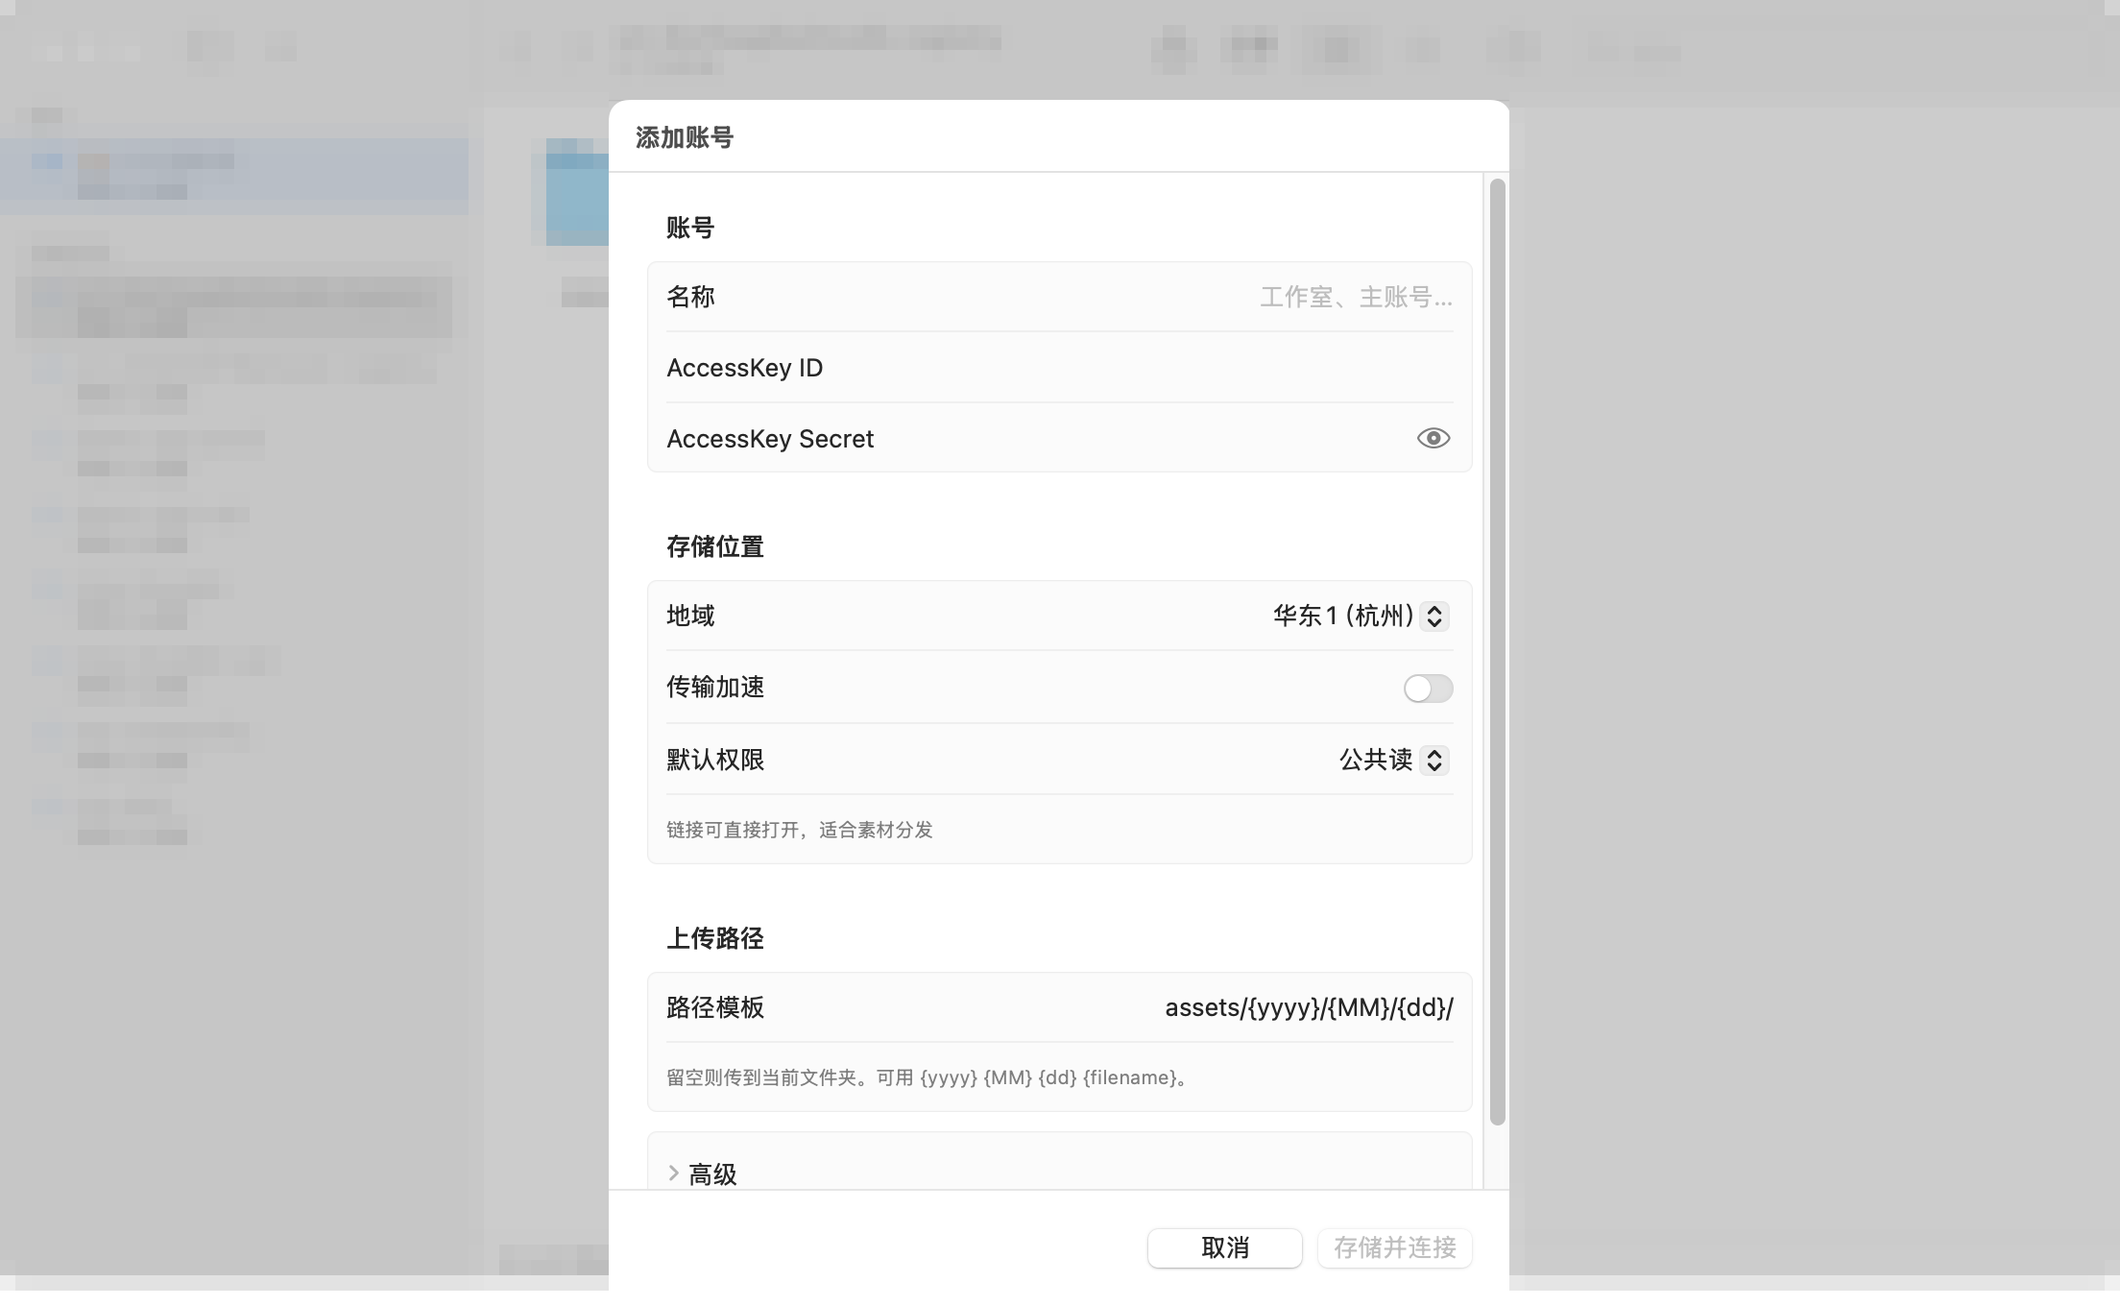
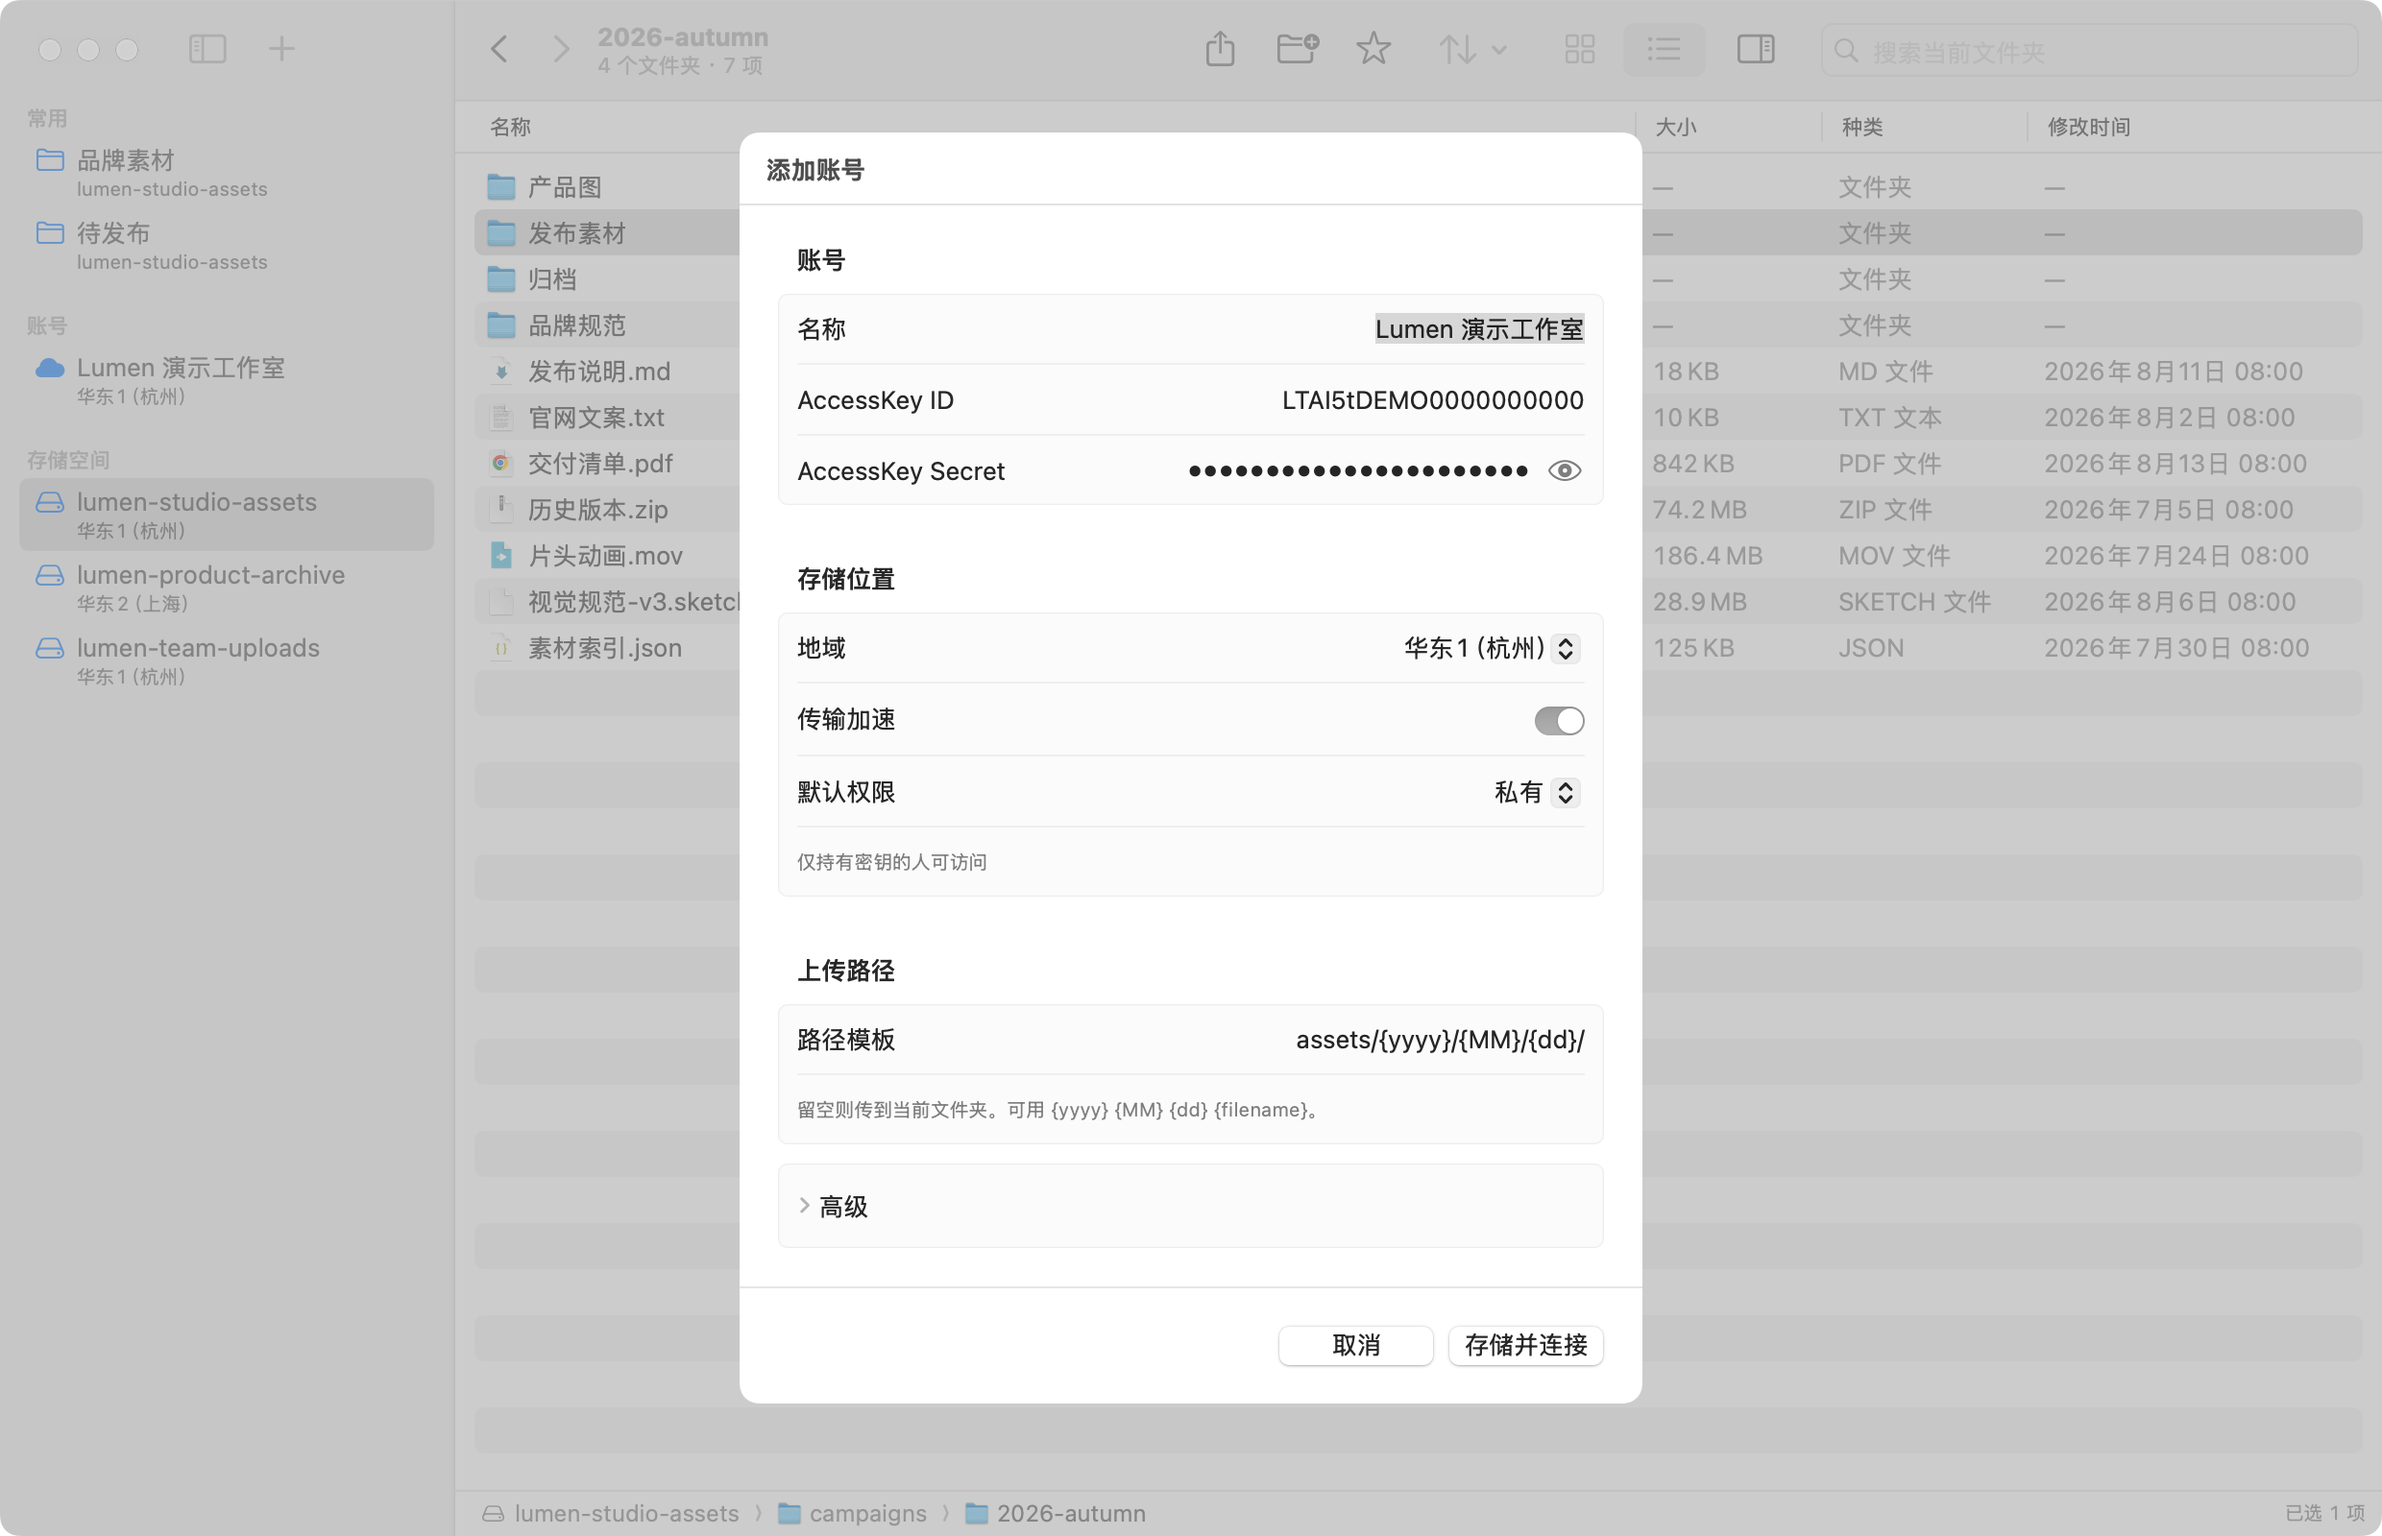
docs: generate safe Lumen product screenshots

diff --git a/Lumen/App/ScreenshotDemo.swift b/Lumen/App/ScreenshotDemo.swift
@@ -1,0 +1,143 @@
+#if DEBUG
+import AppKit
+import Foundation
+
+@MainActor
+enum ScreenshotDemo {
+    enum Mode: Equatable {
+        case browser
+        case account
+    }
+
+    static var currentMode: Mode? {
+        let arguments = ProcessInfo.processInfo.arguments
+        if arguments.contains("--lumen-screenshot-browser") { return .browser }
+        if arguments.contains("--lumen-screenshot-account") { return .account }
+        return nil
+    }
+
+    static let accountDraft = AccountDraft(
+        id: UUID(uuidString: "6A7ED12A-73B6-4C18-A6DE-3BD395520001")!,
+        name: "Lumen 演示工作室",
+        accessKeyId: "LTAI5tDEMO0000000000",
+        secret: "demo-secret-never-used",
+        token: "",
+        regionID: "cn-hangzhou",
+        endpointOverride: "",
+        cdnDomain: "media.example.com",
+        defaultACL: .private,
+        prefixTemplate: "assets/{yyyy}/{MM}/{dd}/",
+        useTransferAccelerate: true,
+        createdAt: Date(timeIntervalSince1970: 1_765_756_800)
+    )
+
+    static func makeModel(for mode: Mode) -> AppModel {
+        let accountID = UUID(uuidString: "6A7ED12A-73B6-4C18-A6DE-3BD395520001")!
+        let account = OSSAccount(
+            id: accountID,
+            name: "Lumen 演示工作室",
+            accessKeyId: "LTAI5tDEMO0000000000",
+            regionID: "cn-hangzhou",
+            endpointOverride: "",
+            cdnDomain: "media.example.com",
+            defaultACL: .private,
+            prefixTemplate: "assets/{yyyy}/{MM}/{dd}/",
+            useTransferAccelerate: true,
+            createdAt: Date(timeIntervalSince1970: 1_765_756_800)
+        )
+        let defaults = UserDefaults(suiteName: "Lumen.ScreenshotDemo.\(UUID().uuidString)")!
+        let services = AppServices(
+            accounts: [account],
+            settings: AppSettings(defaults: defaults),
+            favorites: FavoriteStore(defaults: defaults)
+        )
+        let model = AppModel(services: services)
+        model.browser = BrowserModel(defaults: defaults)
+        model.selectedAccountID = accountID
+        model.buckets = buckets
+        model.selectedBucketName = "lumen-studio-assets"
+        model.browser.prefix = "campaigns/2026-autumn/"
+        model.browser.viewMode = .list
+        model.browser.imagesOnly = false
+        model.browser.folders = folders
+        model.browser.objects = objects
+        model.browser.backStack = ["", "campaigns/"]
+        model.browser.replaceSelection(["campaigns/2026-autumn/发布素材/"])
+        model.favorites.add(FavoriteLocation(
+            accountID: accountID,
+            bucketName: "lumen-studio-assets",
+            prefix: "brand/",
+            name: "品牌素材"
+        ))
+        model.favorites.add(FavoriteLocation(
+            accountID: accountID,
+            bucketName: "lumen-studio-assets",
+            prefix: "campaigns/2026-autumn/发布素材/",
+            name: "待发布"
+        ))
+        model.showAccountSheet = mode == .account
+        return model
+    }
+
+    static func prepareWindow() {
+        DispatchQueue.main.asyncAfter(deadline: .now() + 0.2) {
+            guard let window = NSApp.windows.first(where: { $0.canBecomeKey }) else { return }
+            window.setContentSize(NSSize(width: 1240, height: 800))
+            window.center()
+            window.makeKeyAndOrderFront(nil)
+            NSApp.activate(ignoringOtherApps: true)
+        }
+    }
+
+    private static let buckets = [
+        OSSBucket(
+            name: "lumen-studio-assets",
+            regionID: "cn-hangzhou",
+            location: "oss-cn-hangzhou",
+            extranetEndpoint: "oss-cn-hangzhou.aliyuncs.com",
+            createdAt: Date(timeIntervalSince1970: 1_704_067_200)
+        ),
+        OSSBucket(
+            name: "lumen-product-archive",
+            regionID: "cn-shanghai",
+            location: "oss-cn-shanghai",
+            extranetEndpoint: "oss-cn-shanghai.aliyuncs.com",
+            createdAt: Date(timeIntervalSince1970: 1_672_531_200)
+        ),
+        OSSBucket(
+            name: "lumen-team-uploads",
+            regionID: "cn-hangzhou",
+            location: "oss-cn-hangzhou",
+            extranetEndpoint: "oss-cn-hangzhou.aliyuncs.com",
+            createdAt: Date(timeIntervalSince1970: 1_735_689_600)
+        )
+    ]
+
+    private static let folders = [
+        OSSFolder(prefix: "campaigns/2026-autumn/品牌规范/"),
+        OSSFolder(prefix: "campaigns/2026-autumn/产品图/"),
+        OSSFolder(prefix: "campaigns/2026-autumn/发布素材/"),
+        OSSFolder(prefix: "campaigns/2026-autumn/归档/")
+    ]
+
+    private static let objects = [
+        object("交付清单.pdf", size: 842_371, modified: 1_786_579_200),
+        object("发布说明.md", size: 18_426, modified: 1_786_406_400),
+        object("视觉规范-v3.sketch", size: 28_934_228, modified: 1_785_974_400),
+        object("官网文案.txt", size: 9_842, modified: 1_785_628_800),
+        object("素材索引.json", size: 124_908, modified: 1_785_369_600),
+        object("片头动画.mov", size: 186_422_901, modified: 1_784_851_200),
+        object("历史版本.zip", size: 74_208_552, modified: 1_783_209_600)
+    ]
+
+    private static func object(_ name: String, size: Int64, modified: TimeInterval) -> OSSObject {
+        OSSObject(
+            key: "campaigns/2026-autumn/\(name)",
+            size: size,
+            etag: "DEMO-\(size)",
+            lastModified: Date(timeIntervalSince1970: modified),
+            storageClass: "Standard"
+        )
+    }
+}
+#endif

diff --git a/Lumen/LumenApp.swift b/Lumen/LumenApp.swift
@@ -31,13 +31,30 @@ struct LumenApp: App {
 }
 
 private struct WorkspaceRoot: View {
-    @State private var model = AppModel()
+    @State private var model: AppModel
+
+    init() {
+        #if DEBUG
+        if let mode = ScreenshotDemo.currentMode {
+            _model = State(initialValue: ScreenshotDemo.makeModel(for: mode))
+            return
+        }
+        #endif
+        _model = State(initialValue: AppModel())
+    }
 
     var body: some View {
         RootView()
             .environment(model)
+            .modifier(ScreenshotActiveState())
             .background(WindowFocusProbe { model.becomeFocused() })
             .onAppear {
+                #if DEBUG
+                if ScreenshotDemo.currentMode != nil {
+                    ScreenshotDemo.prepareWindow()
+                    return
+                }
+                #endif
                 guard !AppRuntime.isRunningTests else { return }
                 do {
                     try SecretStore.migrateLegacySecrets()
@@ -47,6 +64,21 @@ private struct WorkspaceRoot: View {
                 model.bootstrap()
                 model.becomeFocused()
             }
+    }
+}
+
+private struct ScreenshotActiveState: ViewModifier {
+    @ViewBuilder
+    func body(content: Content) -> some View {
+        #if DEBUG
+        if ScreenshotDemo.currentMode != nil {
+            content.environment(\.controlActiveState, .active)
+        } else {
+            content
+        }
+        #else
+        content
+        #endif
     }
 }
 

diff --git a/LumenTests/ScreenshotDemoTests.swift b/LumenTests/ScreenshotDemoTests.swift
@@ -1,0 +1,35 @@
+#if DEBUG
+import Testing
+@testable import Lumen
+
+@MainActor
+struct ScreenshotDemoTests {
+    @Test func browserFixtureUsesSyntheticIsolatedWorkspace() {
+        let model = ScreenshotDemo.makeModel(for: .browser)
+
+        #expect(model.accounts.count == 1)
+        #expect(model.selectedAccount?.name == "Lumen 演示工作室")
+        #expect(model.selectedAccount?.accessKeyId == "LTAI5tDEMO0000000000")
+        #expect(model.selectedBucketName == "lumen-studio-assets")
+        #expect(model.browser.prefix == "campaigns/2026-autumn/")
+        #expect(model.browser.viewMode == .list)
+        #expect(model.browser.folders.count == 4)
+        #expect(model.browser.objects.count == 7)
+        #expect(model.browser.selectedKeys == ["campaigns/2026-autumn/发布素材/"])
+        #expect(model.favorites.items.map(\.name) == ["品牌素材", "待发布"])
+        #expect(!model.showAccountSheet)
+    }
+
+    @Test func accountFixtureIsClearlyNonProduction() {
+        let model = ScreenshotDemo.makeModel(for: .account)
+        let draft = ScreenshotDemo.accountDraft
+
+        #expect(model.showAccountSheet)
+        #expect(draft.name == "Lumen 演示工作室")
+        #expect(draft.accessKeyId.contains("DEMO"))
+        #expect(draft.secret == "demo-secret-never-used")
+        #expect(draft.defaultACL == .private)
+        #expect(draft.prefixTemplate == "assets/{yyyy}/{MM}/{dd}/")
+    }
+}
+#endif

diff --git a/Lumen/Views/RootView.swift b/Lumen/Views/RootView.swift
@@ -155,7 +155,7 @@ private struct RootPresentation: ViewModifier {
         @Bindable var model = model
         content
             .sheet(isPresented: $model.showAccountSheet) {
-                AccountSheet(draft: AccountDraft.fresh())
+                AccountSheet(draft: initialAccountDraft)
             }
             .fileImporter(
                 isPresented: $showFileImporter,
@@ -225,6 +225,15 @@ private struct RootPresentation: ViewModifier {
             .onChange(of: model.browser.selectedKeys) { _, _ in
                 Task { await model.loadInspector() }
             }
+    }
+
+    private var initialAccountDraft: AccountDraft {
+        #if DEBUG
+        if ScreenshotDemo.currentMode == .account {
+            return ScreenshotDemo.accountDraft
+        }
+        #endif
+        return AccountDraft.fresh()
     }
 }
 
